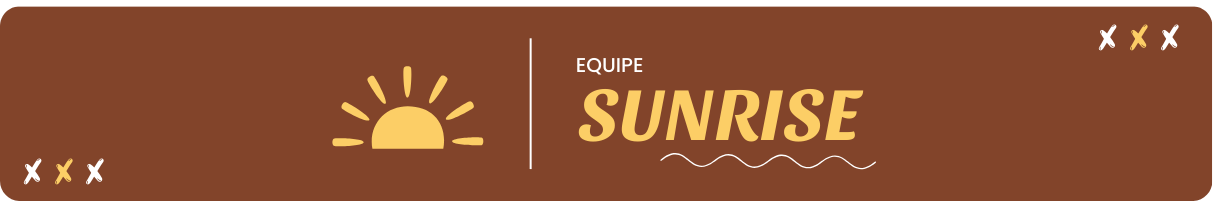
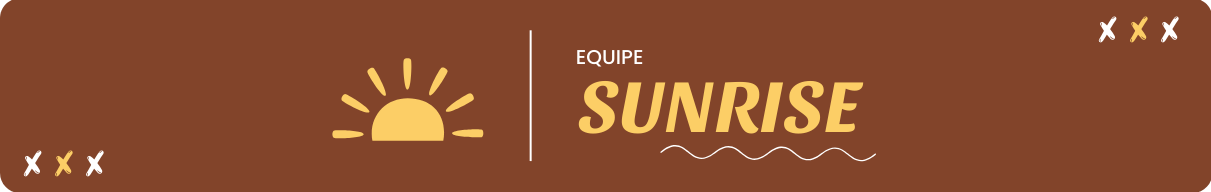
add sobre nos

diff --git a/pp3/src/pages/AboutUs/aboutUs.jsx b/pp3/src/pages/AboutUs/aboutUs.jsx
@@ -5,6 +5,7 @@ import '../../style/header.css'
 import '../../style/footer.css'
 import '../../style/AboutUs/aboutUs.css'
 
+import Titulo from '../../components/aboutUs/titulo.jsx'
 import Header from '../../components/header.js';
 import Footer from '../../components/footer.js'
 
@@ -18,13 +19,30 @@ export default () => (
             
             <Header/>
 
-            <div className="section-main">
+            <main>
                 <img className="fundo-01" src="/img/AboutUsImg/fundo-01.png"></img>
 
-                <div id="section">
+                <section>
+                     <img className="banner-sunrise" src="/img/AboutUsImg/SUNRISE.png"></img>
 
-                </div>
-            </div>
+                     <Titulo icone="/img/AboutUsImg/icon-interrogacao.png" alt="icon-interrogaçao" nome="quem somos nós">
+                            <div className="desc-grup">
+                                <p>"Somos uma equipe apaixonada por tecnologia, especializada em desenvolvimento, segurança da informação e infraestrutura.
+                                     Unimos criatividade e técnica para oferecer soluções personalizadas com ética, excelência e foco em transformar desafios em resultados reais"</p>
+                            </div>
+                     </Titulo>
+
+                     <Titulo icone="/img/AboutUsImg/trajetoria.png" alt="icon-trajetoria" nome="nossa trajetória">
+
+                     </Titulo>
+
+                     <Titulo icone="/img/AboutUsImg/equipe.png" alt="icon-equipe" nome="membros">
+
+                     </Titulo>
+                     
+                </section>
+               
+            </main>
 
                 
             <Footer/>

diff --git a/pp3/src/components/aboutUs/titulo.jsx b/pp3/src/components/aboutUs/titulo.jsx
@@ -1,0 +1,40 @@
+import '../../style/Home/index.css'
+
+export default (props) => {
+    const modelo = {
+        display: 'flex',
+        gap: '1rem',
+        alignItems: 'center',
+        marginLeft: '2rem',
+        marginBottom: '-2rem'
+    }
+
+    const img = {
+        width: '3.5rem'
+    }
+
+    const titulo = {
+        color: '#522A1A',
+        textTransform: 'uppercase', 
+        fontFamily: '"Lilita One", serif',
+        fontWeight: '400',
+        fontSize: '2.5rem',
+    }
+
+    const section = {     
+        marginTop: '9rem',
+    }
+
+    return (
+        <div className="section" style={section}>
+            <div className="Title"  style={ modelo }>
+                <img style={img} src={ props.icone }  alt={props.alt}></img>
+               <h1 style={titulo}> { props.nome} </h1>
+            </div> {/* titulo */}
+
+                <div className="conteudo">
+                    { props.children }
+                </div> {/* conteudo */}
+        </div>
+    );
+};

diff --git a/pp3/src/style/AboutUs/aboutUs.css b/pp3/src/style/AboutUs/aboutUs.css
@@ -1,15 +1,17 @@
-.section-main{
+@import url('https://fonts.googleapis.com/css2?family=Lilita+One&display=swap');
+
+main{
     position: relative;
     display: flex;
     flex-direction: column;
     align-items: center;
-    min-height: 100vh; /* Ocupa pelo menos a altura total da tela */
-    padding-top: 60vh; /* Compensa a altura da imagem de fundo */
+    min-height: 100vh; 
+
     box-sizing: border-box;
 }
 
 .fundo-01 {
-    margin-top: 3rem;
+    margin-top: 5rem;
     width: 100%;
     height: 90vh;
     position: absolute;
@@ -17,6 +19,20 @@
     left: 0;
     z-index: 0; /* Fundo fica atrás */
     background-size: cover;
-    background-position: center;
     pointer-events: none;
+}
+
+section{
+    padding: 0rem 8rem;
+    z-index: 10;
+}
+
+.banner-sunrise {
+    margin-top: 1rem;
+    height: 11rem;
+    border-radius: 20px;
+    width: 100%;
+    background-size: cover;
+    position: relative;
+    overflow: hidden;
 }
